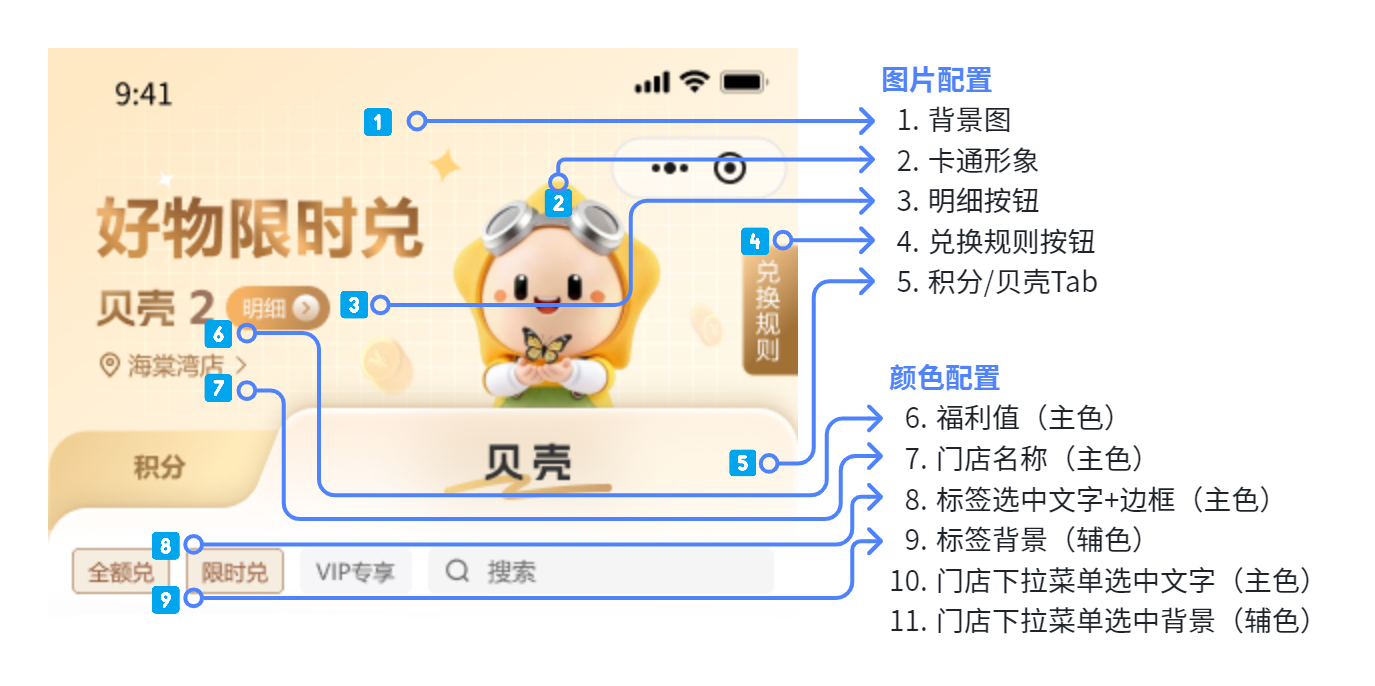
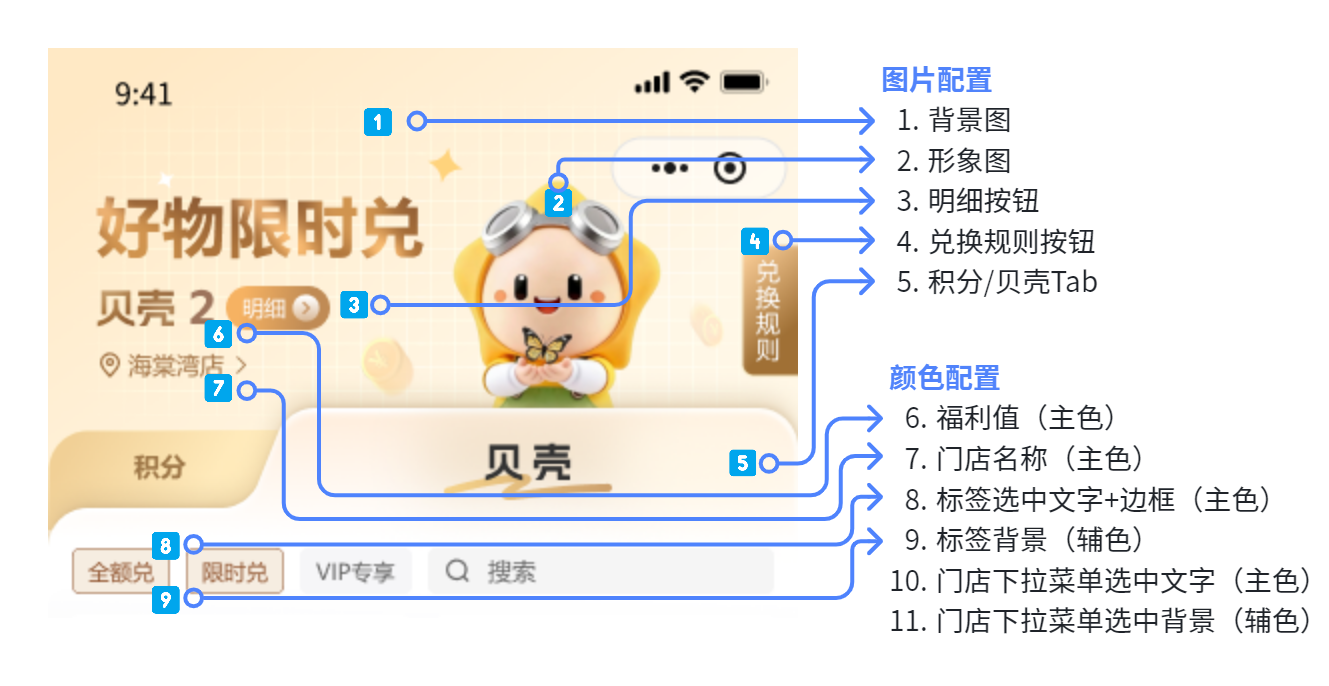
feat(页面配置): 图片配置增加效果图预览及更新尺寸
- 替换参考效果图(ref-image.png)
- 每个图片配置项左侧增加效果图预览，高度固定宽度按比例
- 更新尺寸: 背景图750×398, 形象图262×206, 明细按钮图104×44, 兑换规则图57×134, Tab选中图750×155
- 卡通形象更名为形象图

diff --git a/exchange-admin/index.html b/exchange-admin/index.html
@@ -1592,25 +1592,31 @@
       <div id="centerTabConfig" style="display:none;">
         <!-- 图片配置（合并卡片） -->
         <div style="background:#fff;border-radius:12px;padding:20px;border:1px solid var(--border);margin-bottom:16px;overflow-x:auto;">
-          <div style="display:flex;gap:20px;min-width:1080px;">
+          <div style="display:flex;gap:20px;min-width:1200px;">
           <!-- 左侧：配置区 -->
-          <div style="flex:1;min-width:360px;">
+          <div style="flex:1;min-width:460px;">
             <div style="font-weight:600;font-size:15px;margin-bottom:2px;">图片配置</div>
             <div style="font-size:12px;color:var(--ink-4);margin-bottom:12px;">配置用户端各位置图片，右侧参考图标注了各图片的显示位置</div>
 
             <!-- Banner图 -->
             <div style="display:flex;align-items:center;gap:10px;margin-bottom:10px;padding-bottom:10px;border-bottom:1px solid var(--border);">
-              <div style="width:110px;flex-shrink:0;font-size:12px;font-weight:500;color:var(--ink-2);">① 背景图<br><span style="font-size:11px;color:var(--ink-4);font-weight:400;">750x300px</span></div>
+              <div style="flex-shrink:0;display:flex;align-items:center;justify-content:center;background:var(--bg-2);border-radius:6px;border:1px solid var(--border);padding:4px;min-width:80px;height:68px;">
+                <img src="assets/page-config/bg.png" style="height:60px;width:auto;display:block;border-radius:4px;" alt="背景图效果图">
+              </div>
+              <div style="width:110px;flex-shrink:0;font-size:12px;font-weight:500;color:var(--ink-2);">① 背景图<br><span style="font-size:11px;color:var(--ink-4);font-weight:400;">750×398px</span></div>
               <div id="bannerPreviewThumb" style="width:100px;height:50px;background:var(--bg-2);border-radius:6px;display:flex;align-items:center;justify-content:center;font-size:11px;color:var(--ink-4);flex-shrink:0;overflow:hidden;border:1px dashed var(--border);">背景图</div>
               <div style="width:80px;flex-shrink:0;">
                 <label class="btn btn-outline btn-sm" style="cursor:pointer;font-size:12px;">上传<input type="file" accept="image/*" style="display:none;" onchange="handleBannerUpload(this)"></label>
               </div>
             </div>
 
-            <!-- 卡通形象 -->
+            <!-- 形象图 -->
             <div style="display:flex;align-items:center;gap:10px;margin-bottom:10px;padding-bottom:10px;border-bottom:1px solid var(--border);">
-              <div style="width:110px;flex-shrink:0;font-size:12px;font-weight:500;color:var(--ink-2);">② 卡通形象<br><span style="font-size:11px;color:var(--ink-4);font-weight:400;">175x175px</span></div>
-              <div id="mascotPreviewThumb" style="width:50px;height:50px;background:var(--bg-2);border-radius:50%;display:flex;align-items:center;justify-content:center;font-size:11px;color:var(--ink-4);flex-shrink:0;overflow:hidden;border:1px dashed var(--border);">卡通形象</div>
+              <div style="flex-shrink:0;display:flex;align-items:center;justify-content:center;background:var(--bg-2);border-radius:6px;border:1px solid var(--border);padding:4px;min-width:80px;height:68px;">
+                <img src="assets/page-config/mascot.png" style="height:60px;width:auto;display:block;border-radius:4px;" alt="形象图效果图">
+              </div>
+              <div style="width:110px;flex-shrink:0;font-size:12px;font-weight:500;color:var(--ink-2);">② 形象图<br><span style="font-size:11px;color:var(--ink-4);font-weight:400;">262×206px</span></div>
+              <div id="mascotPreviewThumb" style="width:50px;height:50px;background:var(--bg-2);border-radius:50%;display:flex;align-items:center;justify-content:center;font-size:11px;color:var(--ink-4);flex-shrink:0;overflow:hidden;border:1px dashed var(--border);">形象图</div>
               <div style="width:80px;flex-shrink:0;">
                 <label class="btn btn-outline btn-sm" style="cursor:pointer;font-size:12px;">上传<input type="file" accept="image/*" style="display:none;" onchange="handleMascotUpload(this)"></label>
               </div>
@@ -1618,7 +1624,10 @@
 
             <!-- 明细按钮图 -->
             <div style="display:flex;align-items:center;gap:10px;margin-bottom:10px;padding-bottom:10px;border-bottom:1px solid var(--border);">
-              <div style="width:110px;flex-shrink:0;font-size:12px;font-weight:500;color:var(--ink-2);">③ 明细按钮图<br><span style="font-size:11px;color:var(--ink-4);font-weight:400;">40x40px</span></div>
+              <div style="flex-shrink:0;display:flex;align-items:center;justify-content:center;background:var(--bg-2);border-radius:6px;border:1px solid var(--border);padding:4px;min-width:80px;height:48px;">
+                <img src="assets/page-config/detail-btn.png" style="height:40px;width:auto;display:block;border-radius:4px;" alt="明细按钮图效果图">
+              </div>
+              <div style="width:110px;flex-shrink:0;font-size:12px;font-weight:500;color:var(--ink-2);">③ 明细按钮图<br><span style="font-size:11px;color:var(--ink-4);font-weight:400;">104×44px</span></div>
               <div id="detailBtnPreview" style="width:40px;height:40px;background:var(--bg-2);border-radius:6px;display:flex;align-items:center;justify-content:center;font-size:10px;color:var(--ink-4);flex-shrink:0;overflow:hidden;border:1px dashed var(--border);">明细按钮</div>
               <div style="width:80px;flex-shrink:0;">
                 <label class="btn btn-outline btn-sm" style="cursor:pointer;font-size:12px;">上传<input type="file" accept="image/*" style="display:none;" onchange="handleTabImageUpload(this,'detailBtnPreview')"></label>
@@ -1627,8 +1636,11 @@
 
             <!-- 兑换规则图 -->
             <div style="display:flex;align-items:center;gap:10px;margin-bottom:10px;padding-bottom:10px;border-bottom:1px solid var(--border);">
-              <div style="width:110px;flex-shrink:0;font-size:12px;font-weight:500;color:var(--ink-2);">④ 兑换规则图<br><span style="font-size:11px;color:var(--ink-4);font-weight:400;">宽750px</span></div>
-              <div id="ruleImagePreview" style="width:100px;height:50px;background:var(--bg-2);border-radius:6px;display:flex;align-items:center;justify-content:center;font-size:11px;color:var(--ink-4);flex-shrink:0;overflow:hidden;border:1px dashed var(--border);">兑换规则</div>
+              <div style="flex-shrink:0;display:flex;align-items:center;justify-content:center;background:var(--bg-2);border-radius:6px;border:1px solid var(--border);padding:4px;min-width:80px;height:88px;">
+                <img src="assets/page-config/rule.png" style="height:80px;width:auto;display:block;border-radius:4px;" alt="兑换规则图效果图">
+              </div>
+              <div style="width:110px;flex-shrink:0;font-size:12px;font-weight:500;color:var(--ink-2);">④ 兑换规则图<br><span style="font-size:11px;color:var(--ink-4);font-weight:400;">57×134px</span></div>
+              <div id="ruleImagePreview" style="width:50px;height:50px;background:var(--bg-2);border-radius:6px;display:flex;align-items:center;justify-content:center;font-size:11px;color:var(--ink-4);flex-shrink:0;overflow:hidden;border:1px dashed var(--border);">兑换规则</div>
               <div style="width:80px;flex-shrink:0;">
                 <label class="btn btn-outline btn-sm" style="cursor:pointer;font-size:12px;">上传<input type="file" accept="image/*" style="display:none;" onchange="handleTabImageUpload(this,'ruleImagePreview')"></label>
               </div>
@@ -1636,16 +1648,22 @@
 
             <!-- ⑤ 积分Tab选中图 -->
             <div style="display:flex;align-items:center;gap:10px;margin-bottom:10px;padding-bottom:10px;border-bottom:1px solid var(--border);">
-              <div style="width:110px;flex-shrink:0;font-size:12px;font-weight:500;color:var(--ink-2);">⑤ 积分Tab选中图<br><span style="font-size:11px;color:var(--ink-4);font-weight:400;">Tab图标</span></div>
+              <div style="flex-shrink:0;display:flex;align-items:center;justify-content:center;background:var(--bg-2);border-radius:6px;border:1px solid var(--border);padding:4px;min-width:80px;height:38px;">
+                <img src="assets/page-config/tab-points.png" style="height:30px;width:auto;display:block;border-radius:4px;" alt="积分Tab选中图效果图">
+              </div>
+              <div style="width:110px;flex-shrink:0;font-size:12px;font-weight:500;color:var(--ink-2);">⑤ 积分Tab选中图<br><span style="font-size:11px;color:var(--ink-4);font-weight:400;">750×155px</span></div>
               <div id="tabPointsPreview" style="width:80px;height:36px;background:var(--bg-2);border-radius:6px;display:flex;align-items:center;justify-content:center;font-size:11px;color:var(--ink-4);flex-shrink:0;overflow:hidden;border:1px dashed var(--border);">积分Tab</div>
               <div style="width:80px;flex-shrink:0;">
                 <label class="btn btn-outline btn-sm" style="cursor:pointer;font-size:12px;">上传<input type="file" accept="image/*" style="display:none;" onchange="handleTabImageUpload(this,'tabPointsPreview')"></label>
               </div>
             </div>
 
-            <!-- ⑤ 贝壳Tab选中图 -->
+            <!-- ⑥ 贝壳Tab选中图 -->
             <div style="display:flex;align-items:center;gap:10px;">
-              <div style="width:110px;flex-shrink:0;font-size:12px;font-weight:500;color:var(--ink-2);">⑤ 贝壳Tab选中图<br><span style="font-size:11px;color:var(--ink-4);font-weight:400;">Tab图标</span></div>
+              <div style="flex-shrink:0;display:flex;align-items:center;justify-content:center;background:var(--bg-2);border-radius:6px;border:1px solid var(--border);padding:4px;min-width:80px;height:38px;">
+                <img src="assets/page-config/tab-shells.png" style="height:30px;width:auto;display:block;border-radius:4px;" alt="贝壳Tab选中图效果图">
+              </div>
+              <div style="width:110px;flex-shrink:0;font-size:12px;font-weight:500;color:var(--ink-2);">⑥ 贝壳Tab选中图<br><span style="font-size:11px;color:var(--ink-4);font-weight:400;">750×155px</span></div>
               <div id="tabShellsPreview" style="width:80px;height:36px;background:var(--bg-2);border-radius:6px;display:flex;align-items:center;justify-content:center;font-size:11px;color:var(--ink-4);flex-shrink:0;overflow:hidden;border:1px dashed var(--border);">贝壳Tab</div>
               <div style="width:80px;flex-shrink:0;">
                 <label class="btn btn-outline btn-sm" style="cursor:pointer;font-size:12px;">上传<input type="file" accept="image/*" style="display:none;" onchange="handleTabImageUpload(this,'tabShellsPreview')"></label>
